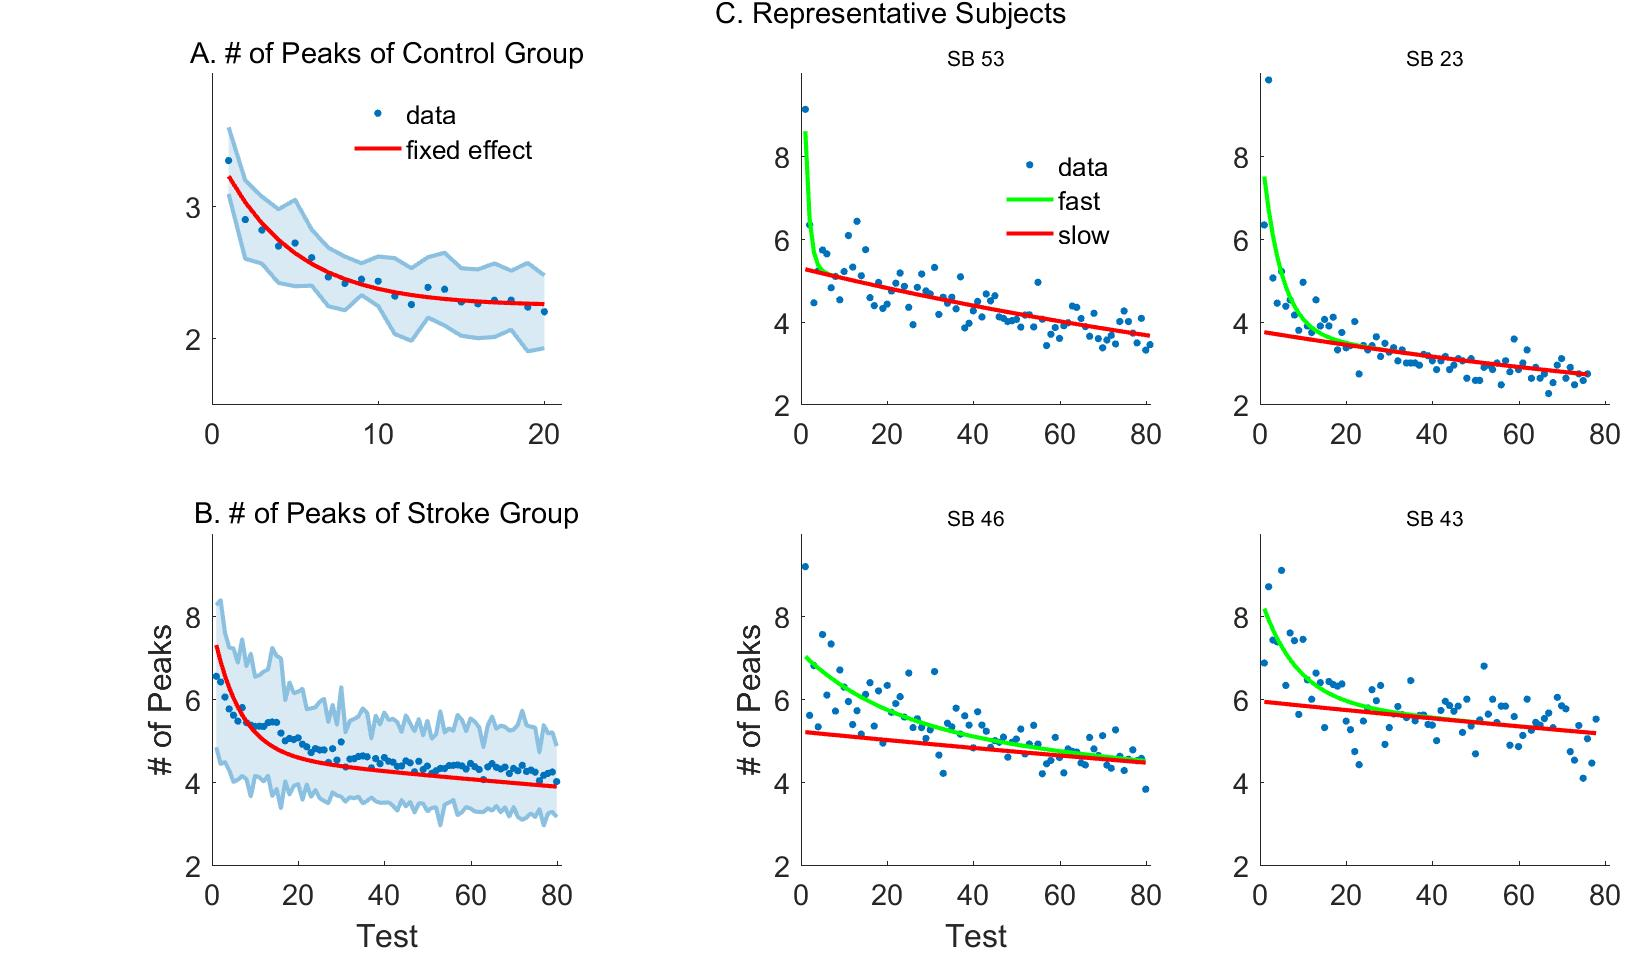
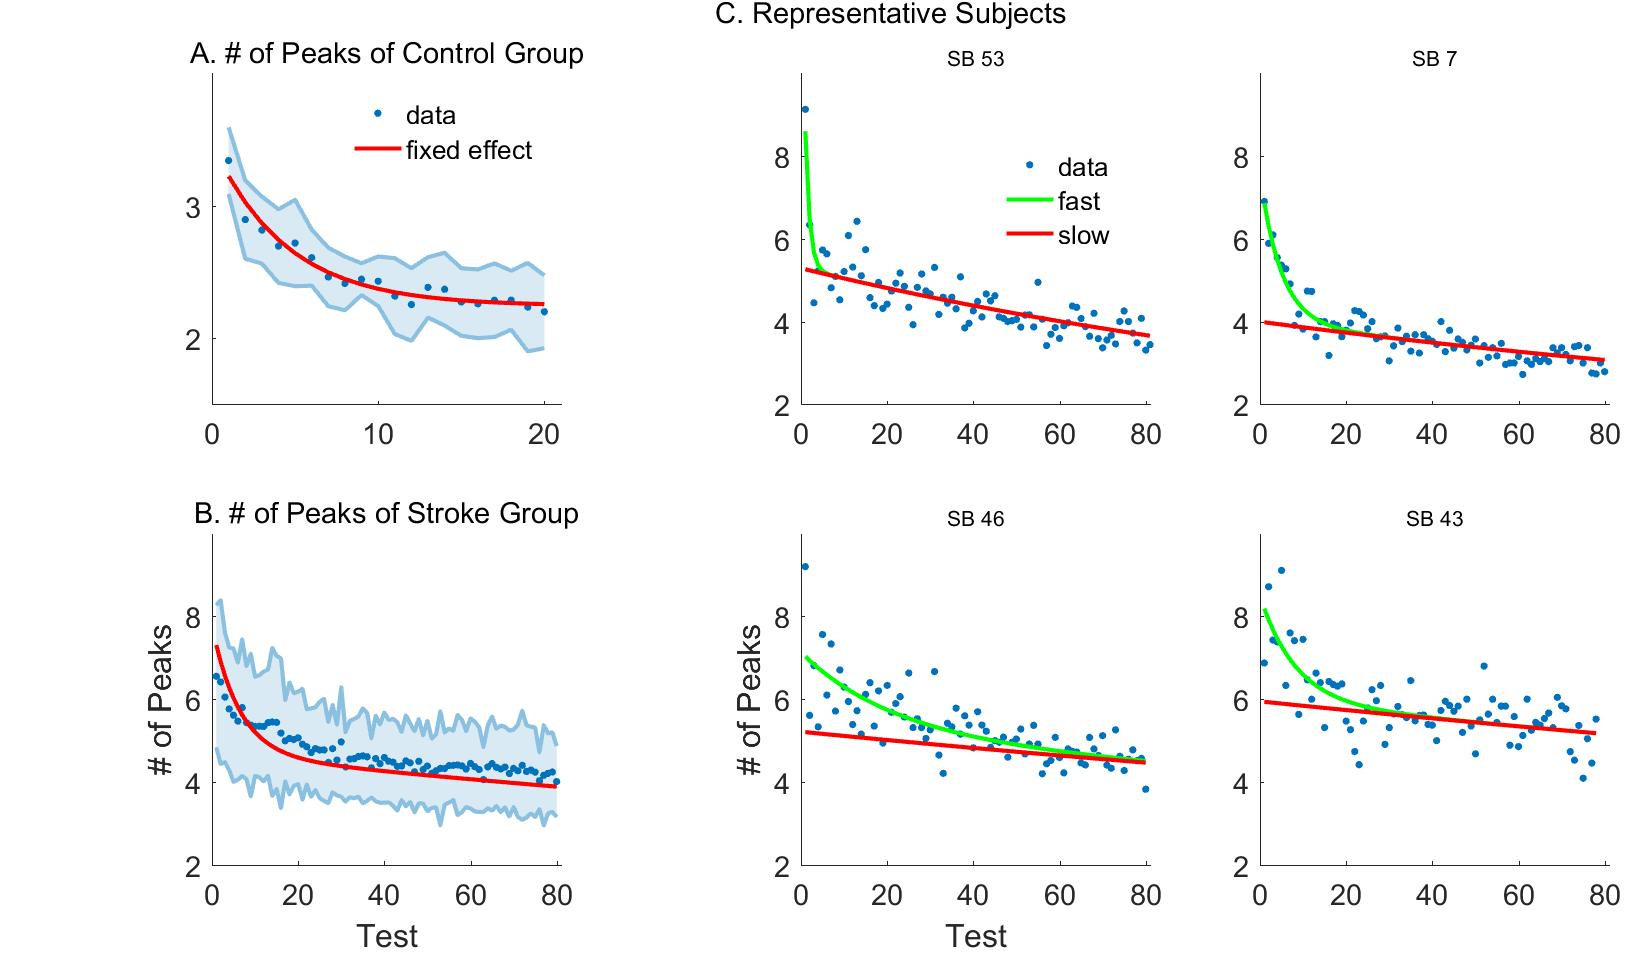
armeospring finalized figures, add intro and discussion

Changed region(s): [[0.7812, 0.2472, 1.0, 0.4016], [0.75, 0.1854, 0.7812, 0.2472], [0.875, 0.0309, 0.9062, 0.0618]]

diff --git a/tex/ArmeoSpring.tex b/tex/ArmeoSpring.tex
@@ -1,13 +1,30 @@
-\outline{1}{Learning, Not Recovery, is Modulated by Joint Synergies and Redundancy Exploration in Robotic Training Post-Stroke}
-\chapter{Learning, Not Recovery, is Modulated by Joint Synergies and Redundancy Exploration in Robotic Training Post-Stroke}
+\outline{1}{Learning is Modulated by Joint Synergies, Whereas Recovery is Modulated by Redundancy Exploration in Robotic Training Post-Stroke}
+\chapter{Learning is Modulated by Joint Synergies, Whereas Recovery is Modulated by Redundancy Exploration in Robotic Training Post-Stroke}
 \label{cha:armeospring}
 
 
 
 \outline{2}{Introduction}
 \section{Introduction}
-
-
+Stoke is one of the leading cause of death and disability globally today (Benjamin et al., 2017).
+Movement impairment due to stroke affects quality of life of stroke survivors (cite).
+Stroke survivors usually display atypical movement patterns, referred to as abnormal “synergies” (Brunnström, 1970). 
+It is not clear how abnormal synergies interact with the recovery of function. 
+On the one hand, abnormal joint coordination may serve as compensation mechanism for functional daily use (Levin, Kleim,  Wolf, 2009); 
+on the other hand, it is not clear how this compensation mechanisms helps or hinders recovery. 
+To improve rehabilitation effectiveness, a better understanding of how joint coordination patterns affect recovery of functional abilities is required.
+ 
+The challenging of stroke rehabilitation also stems from a character of high variability in lesion, impairment, spontaneous recovery, and responsiveness to therapy (Cramer, 2008a, 2008b). 
+It is therefore crucial to recognize individual differences and identify key factors that play important role for recovery.
+ 
+Due to the redundant nature of upper extremity kinematics, healthy individuals exploit redundancy (Kutch  Valero-Cuevas, 2011) or control the task relevant part of the redundancy to achieve a certain task (Scholz  Schöner, 1999). 
+(Singh, Jana, Ghosal,  Murthy, 2016) shows that redundancy in joint space is exploited by healthy individuals to facilitate learning. 
+For individuals post-stroke however, it is unclear what roles redundancy might play in motor learning and recovery.
+ 
+In this study, we investigate the effect of abnormal synergy patterns and redundancy exploitation on motor learning and recovery. 
+We use Principal Component Analysis (PCA) to quantify joint synergies (van Kordelaar, van Wegen,  Kwakkel, 2012) and measure similarities between synergies with principle angles between subspaces (Björck  Golub, 1973). 
+We adapt the method in (Singh et al., 2016) to estimate redundancy exploitation.
+ 
 
 \outline{2}{Methods}
 \section{Methods}
@@ -33,7 +50,7 @@ Participants receive conventional rehabilitation besides robot-aided rehabilitat
 \end{table}
 
 \textbf{Device.}
-Our robot-aided rehabilitation uses ArmeoSpring exoskeleton \cite{} for therapy training. 
+Our robot-aided rehabilitation uses Armeo@Spring exoskeleton from Hocoma\footnote{https://www.hocoma.com/us/} for therapy training. 
 Shown in figure \ref{fig:1setupschedule}, the exoskeleton has 6 degrees of freedom, summarized in table \ref{tab:devicedof} and Fig. \ref{fig:1setupschedule}B. 
 It is attached to the arm by two or three velcro straps. 
 The exoskeleton has two springs equipped, at the upper arm and the forearm respectively. 
@@ -128,7 +145,6 @@ Mixed effect model coefficients are estimated via Matlab 2016a function \textsf{
 \textbf{Conversion of Joint Angles}
 The recordings from ARMEO Spring are joint angles of the exoskeleton, different from anatomical joint angles.
 It is therefore important to infer anatomical joint angles from exoskeleton joint angles. 
-[here goes how we did it]
 
 \textbf{Joint Space Variability.}
 Because the last two joints (pronation/supination and wrist angle) have relatively small variance (control 12.4\%, stroke 4.6\%), we ignore them during joint space variability analysis and synergy analysis.
@@ -203,8 +219,8 @@ We fit a linear mixed effect model to $ \phi(t) $ with a fixed effect on the int
 To investigate how joint synergies affects task space learning, we correlate $ \phi(0) $ with task space (fast and slow) learning rate.
 
 \textbf{Linear Regression}
-In this study, when doing linear regression, we identify outliers through Cook's Distance \cite{}.
-Instead of removing them, we adopt robust regression method with the bisquare weight function \cite{}.
+In this study, when doing linear regression, we identify outliers through Cook's Distance (Cook, 1977).
+Instead of removing them, we adopt robust regression method with the bisquare weight function (Hoaglin, Mosteller, 1983).
 
 \outline{2}{Results}
 \section{Results}
@@ -304,9 +320,7 @@ We are not able to identify stable synergies from stroke participants due to lar
 They can share a similar structure as the control group (Fig. \ref{fig:6synergy}B), or have different structure (Fig. \ref{fig:6synergy}A).
 
 The initial synergy abnormality correlates with the recovery rate $ b_2 $ (see Eqn. \ref{eqn:doubleexp}) as shown in Fig. \ref{fig:6synergy}D.
-
-
-
+Participants with large abnormality recovers slower (such as SB 43, see Fig.\ref{fig:3nopfixran}C); while participants with small abnormality recovers faster (such as SB 7, see Fig.\ref{fig:3nopfixran}C).
 
 
 
@@ -330,4 +344,22 @@ The initial synergy abnormality correlates with the recovery rate $ b_2 $ (see E
 
 \outline{2}{Discussion}
 \section{Discussion}
+We characterize kinematics performance with a double exponential model of number of peaks, and show evidence that the two components link to motor learning and recovery respectively. 
+The mixed effect estimation of parameters allow us to obtain estimations of individual learning rates.
+
+Task-irrelevant variability, or variance in the UnControlled Manifold (UCM), is a source of variability that doesn’t affect the execution of a task, which can be represented by variables. 
+In the original study, (Scholz  Schöner, 1999) demonstrated that during a functional task, certain relevant variables are not controlled.
+The redundancy of human arm kinematics dictates that there must be task-irrelevant variability (the variability that does not affect endpoint trajectories) in the joint space. 
+We measure this task-irrelevant variability with adapted method from (Singh et al., 2016). 
+Although this variability is task irrelevant, it is not unnecessary since it brings flexibility and allow versatile joint coordination for some specific task. 
+However, how task-irrelevant variability affects learning (in healthy subjects) or recovery (in stroke survivors) is a question worth investigating. 
+(Singh et al., 2016) suggested that this variability, as a form of redundancy exploitation, helps motor adaptation and learning. 
+In our study, we found a correlation between task-irrelevant variability and learning rate of post-stroke individuals, suggesting that it also helps stroke individuals to learn a novel task.
+
+Joint synergies are extracted through Principal Component Analysis (PCA). 
+As a dimension reduction method, PCA provides components that explain the most variability in joint angle space. 
+Along with other dimension reduction methods, PCA has been used to extract joint synergies (van Kordelaar et al., 2012). 
+Similarities between synergies can be measured through the angle between two synergies in joint angle space, and similarities between groups of synergies can be measured through the angle between two subspaces (Bockemhl, 2010). 
+We couldn’t verify the method used in (Bockemhl, 2010), instead we use numerical method in (Björck  Golub, 1973) to calculate angles between subspaces. 
+A correlation between joint synergy abnormality and recovery rate may suggest that joint coordination patterns are important for functional recovery.
 

diff --git a/tex/OptimalControl.tex b/tex/OptimalControl.tex
@@ -217,7 +217,7 @@ The forward kinematics, inverse kinematics and dynamics of this two-link arm mod
 \begin{equation}
 \begin{split}
 & q_2 = \arccos{\left(\frac{r^2-l_1^2-l_2^2}{2l_1l_2}\right)} \\
-& q_1 = \arctan{\left( \frac{x}{y} \right)} - \arctan{\left(\frac{l_2\sin{q_2}}{l_1+l_2\cos q_2 }\right)}
+& q_1 = \arctan{\left( \frac{y}{x} \right)} - \arctan{\left(\frac{l_2\sin{q_2}}{l_1+l_2\cos q_2 }\right)}
 \end{split}
 \end{equation}
 \begin{equation} \label{dynamics}
